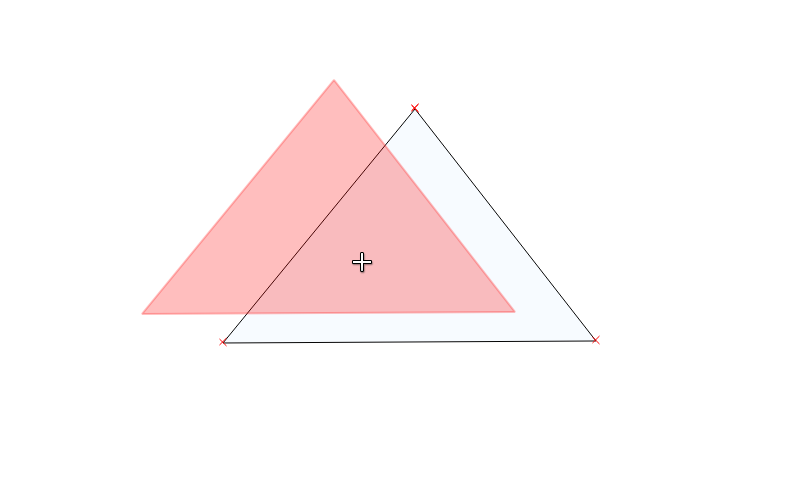
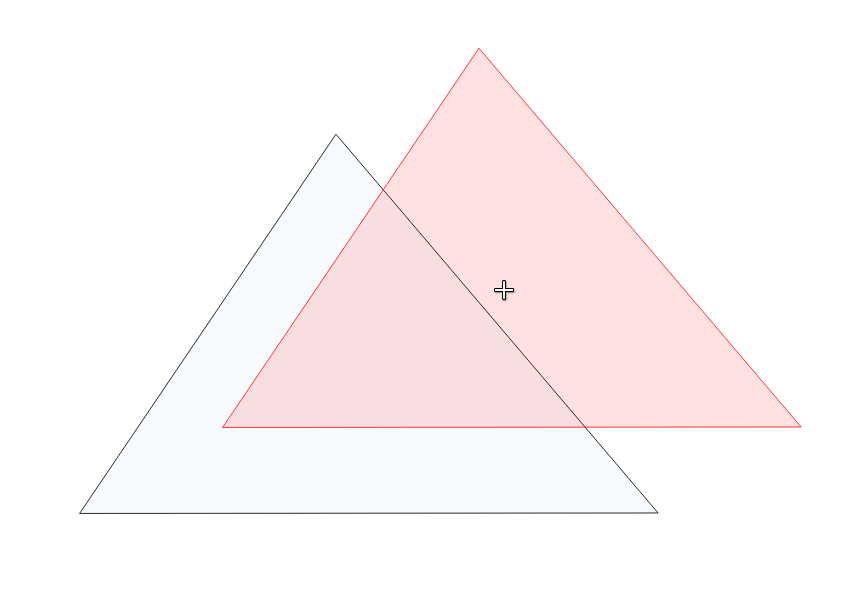
udpate:edit

diff --git a/vektorova_data/editace.rst b/vektorova_data/editace.rst
@@ -46,6 +46,8 @@
    :width: 1.5em
 .. |mIconExpression| image:: ../images/icon/mIconExpression.png
    :width: 1.5em
+.. |mActionMoveFeatureCopy| image:: ../images/icon/mActionMoveFeatureCopy.png
+   :width: 1.5em
 .. |mActionNewVectorLayer| image:: ../images/icon/mActionNewVectorLayer.png
    :width: 1.5em
 
@@ -122,28 +124,28 @@ zeptá, zda chceme provedené změny uložit, či nikoliv.
 
 .. tip:: |mActionAllEdits| :sup:`Aktuální změny` - hromadné ovládání
    změn a zapínání/vypínaní editací ve vrstvách.
-   
-.. tip:: Základní nástroje editace jsou dostupné ve výchozím nastavení 
-   mezi ostatními `Nástrojovými lištami`. Některké nástroje jsou ale 
-   dostupné v samostatné liště :item:`Pokročilá digitalizace`. 
-   Tu můžeme aktivovat v seznamu všech dostupních položek a to pomocí 
-   pravého kliku a následné `aktivace` vybrané položky.  
-   
-   .. figure:: images/advanced_digitizing.png
+
+Základní nástroje editace jsou dostupné ve výchozím nastavení 
+mezi ostatními `Nástrojovými lištami`. Některké nástroje jsou ale 
+dostupné v samostatné liště :item:`Pokročilá digitalizace`. 
+Tu můžeme aktivovat v seznamu všech dostupních položek a to pomocí 
+pravého kliku a následné `aktivace` vybrané položky.  
+
+.. figure:: images/advanced_digitizing.png
     :scale: 90%
     :scale-latex: 40
-    
-    Zapnutí panelu `Pokročilá digitalizace`.
+
+Zapnutí panelu `Pokročilá digitalizace`.
 
 Základní editace geometrie
 ^^^^^^^^^^^^^^^^^^^^^^^^^^
 
-- |mActionCapturePoint|, |mActionCaptureLine|, |mActionCapturePolygon|
-  :sup:`přidat prvek` - kliknutím vytvoříme prvek (bod), nebo lomové
-  body prvku (linie, polygon). V druhém případě ukončíme tvorbu prvku
-  kliknutím pravým tlačítkem a přidáme případné atributy. Při
-  přidávání lomových bodů je možné se vrátit o krok zpět pomocí
-  klávesy :kbd:`Backspace` nebo :kbd:`Del`.
+|mActionCapturePoint|, |mActionCaptureLine|, |mActionCapturePolygon|
+:sup:`Přidat ... prvek` - kliknutím vytvoříme prvek (bod), nebo lomové
+body prvku (linie, polygon). V druhém případě ukončíme tvorbu prvku
+kliknutím pravým tlačítkem a přidáme případné atributy. Při
+přidávání lomových bodů je možné se vrátit o krok zpět pomocí
+klávesy :kbd:`Backspace` nebo :kbd:`Del`.
 
 .. figure:: images/edit_polygon.png
 
@@ -151,23 +153,33 @@ Základní editace geometrie
     byla tvorba prvku pravým kliknutím ukončena, polygon by měl tři uzly
     (tvar trojúhelníku).
 
-- |mActionMoveFeature| :sup:`Přesunout prvek/prvky` - tažením přesuneme
-  jeden prvek nebo více prvků ve výběru
-
-.. figure:: images/edit_polygon_move.png
-
-    Přesun prvku tažením.
-
-- |remove| :sup:`Vymazat vybrané` - smaže vybrané prvky
-
-- |mActionNodeTool| :sup:`Nástroj uzlú` - pomocí nástroje uzlů lze
-  jednotlivé lomové body: přidávat dvojklikem, přesouvat tažením,
-  mazat označením levým klikem a stisknutím klávesy :kbd:`Backspace`
-  nebo :kbd:`Del`
+|mActionNodeTool| :sup:`Vertex tool` - pomocí nástroje uzlů lze
+    - přidávat body kliknutím na křížek ve středu hrany a umístěním bodu 
+    - přidávat body dvojklikem na hranu a umístěním bodu 
+    - posunovat existující body kliknutím na bod a umístěním bodu 
+    - mazat body označením bodu (nebo více bodů pomocí :kbd:`Shift`) a
+      stisknutím klávesy :kbd:`Backspace` nebo :kbd:`Del`
+    - posouvat celé hrany kliknutím na hranu a umístěním hrany
 
 .. figure:: images/edit_polygon_node.png
 
     Přidání a přesunutí lomového bodu (uzlu, vertexu).
+
+Nástroj uzlů lze použít ve dvou módech, buď pouze pro vrstvu kterou editujeme
+, nebo pro všechny vrstvy které jsou v módu editace
+
+|remove| :sup:`Vymazat vybrané` - smaže vybrané prvky
+
+|mActionMoveFeature| :sup:`Přesunout prvek/prvky` - jednotlivé prvky přesuneme kliknutím na prvek, posunutím a opětovným klliknutím
+
+.. figure:: images/edit_polygon_move.png
+
+    Přesun prvku.
+
+Další variantou funkce je |mActionMoveFeatureCopy|:sup:`Kopírovat a přesunout prvek/prvky`, kdy stejným principem prvky kopírujeme.
+Pro přesun nebo kopírování více prvků můžeme pracovat s více prvky,
+které máme ve výběru.
+
 
 - |mActionSplitFeatures| :sup:`Rozdělit objekt` - naklikáme "řez" přes
   místa, které chceme rozdělit a pro ukončení klikneme pravým tlačítkem,
